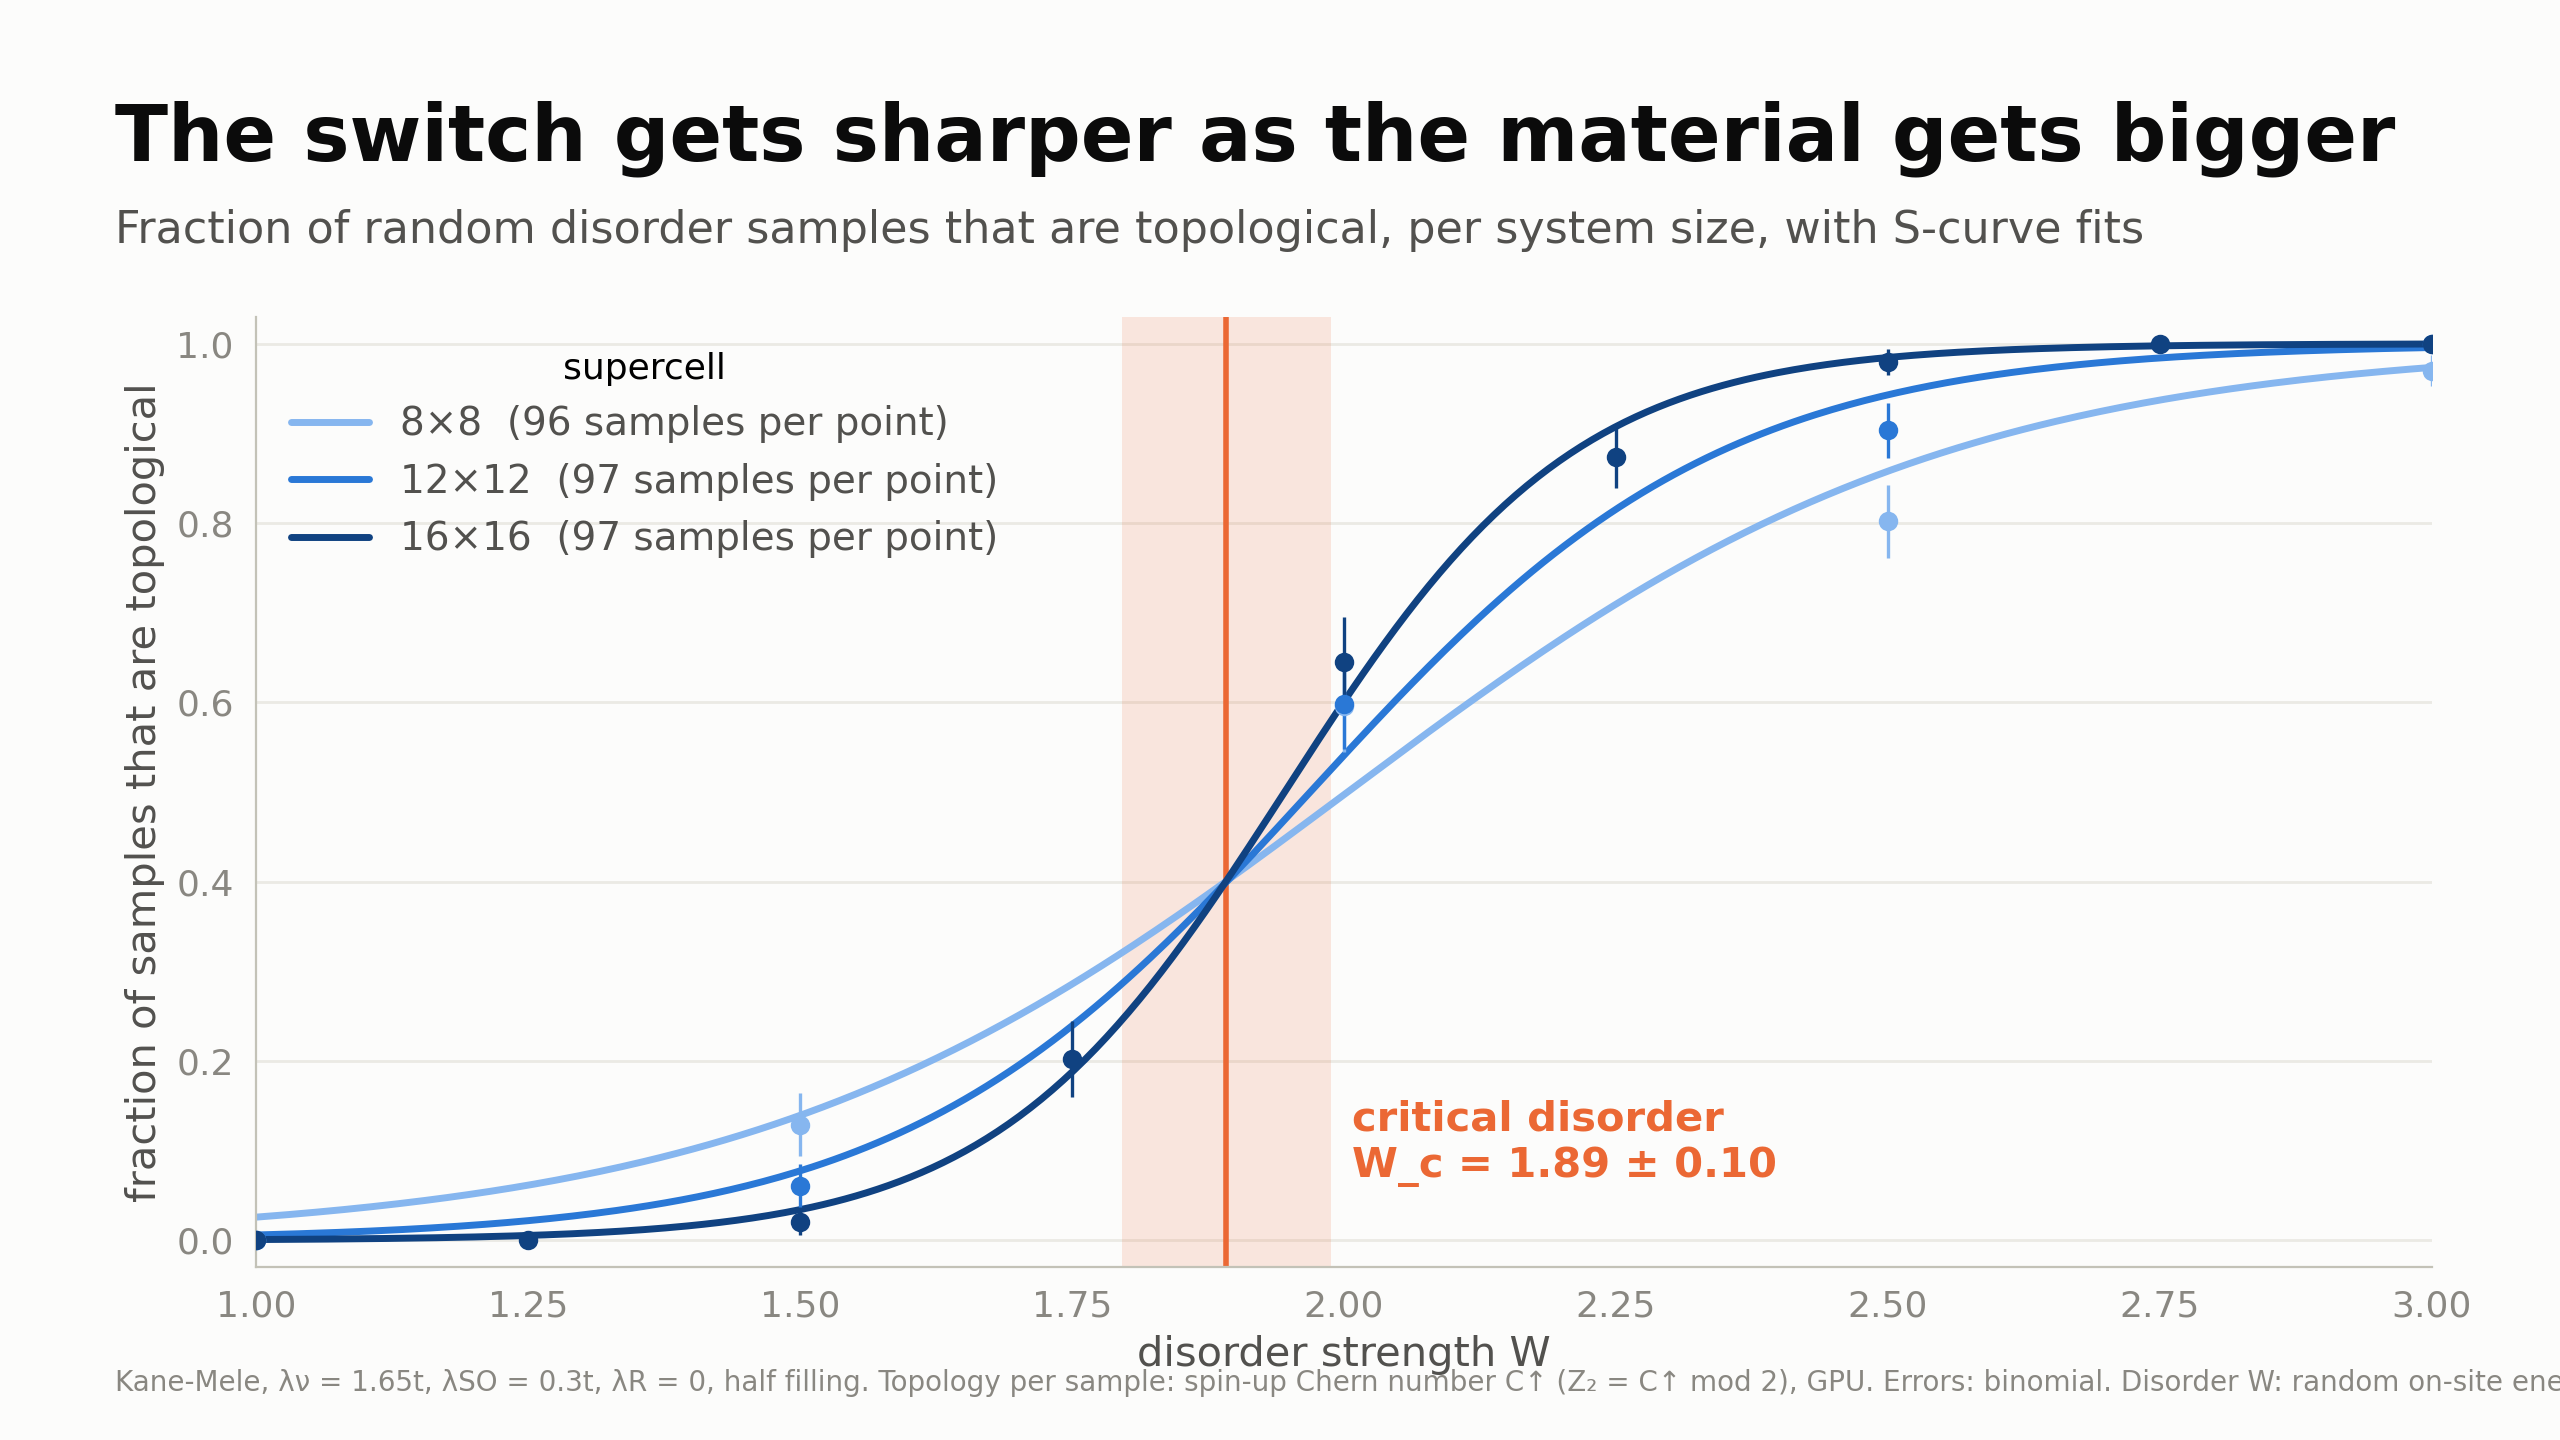
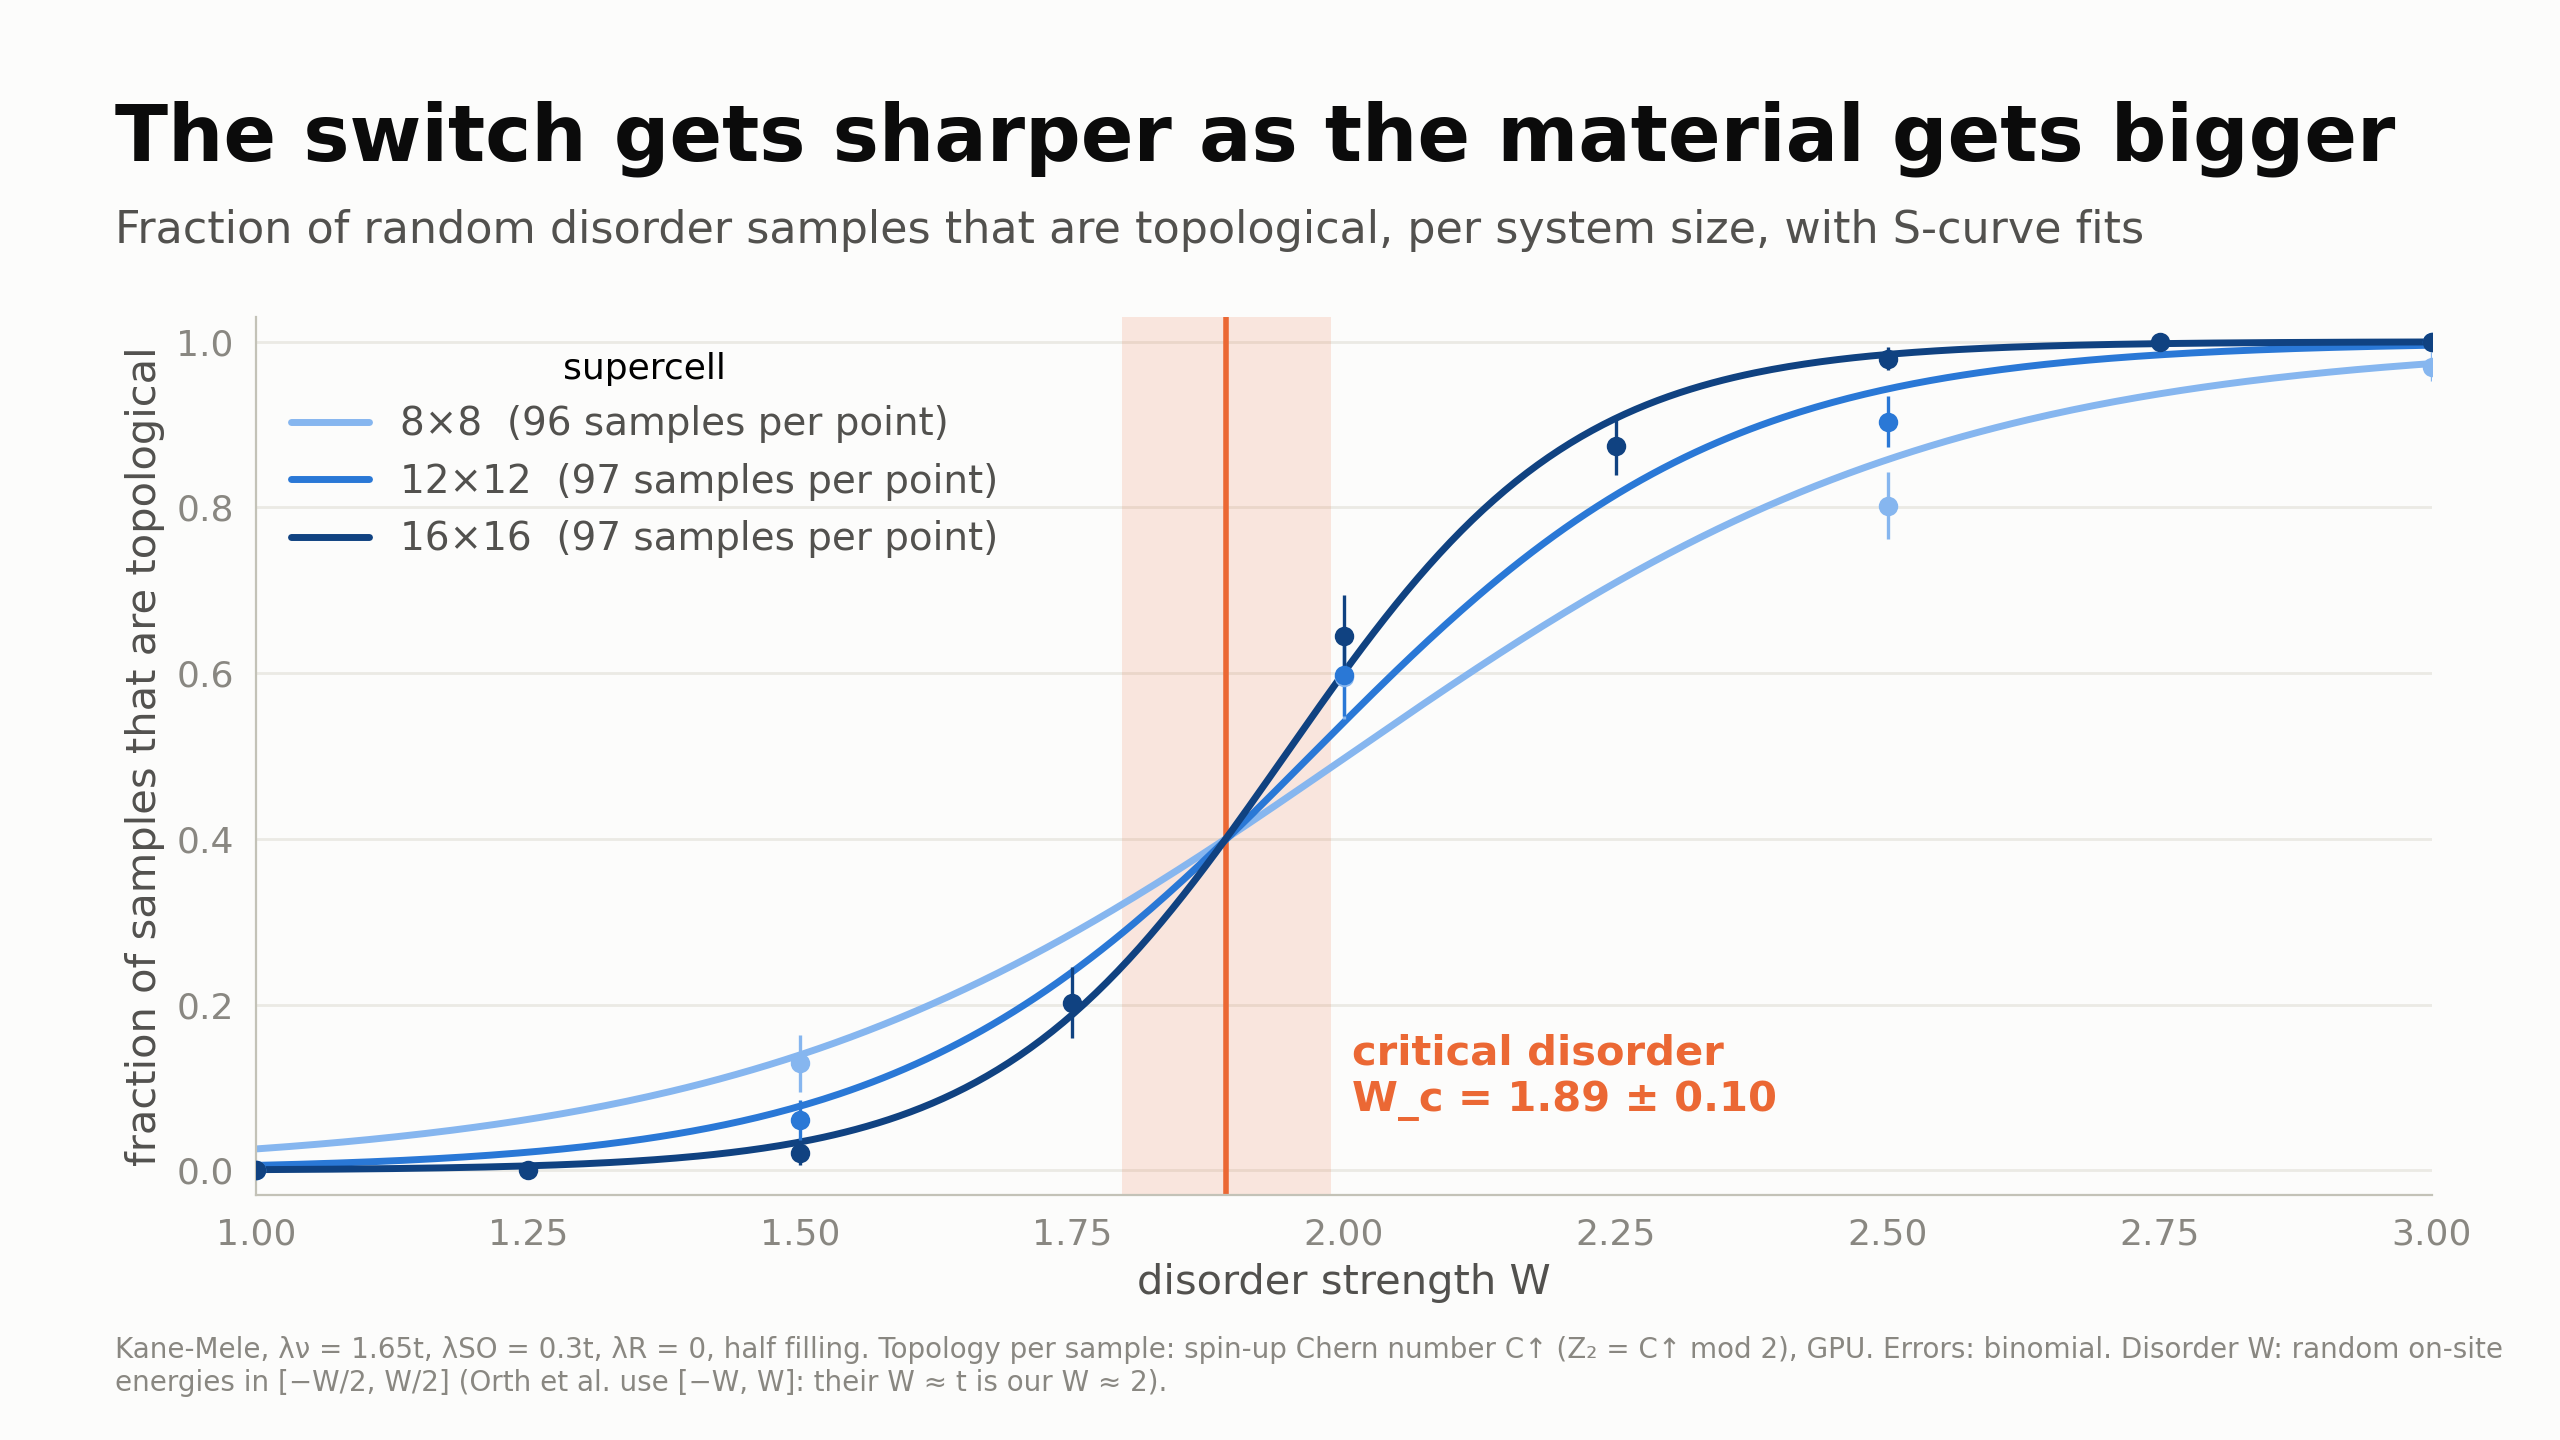
Slide figures for the finite-size-scaling result (analysis/fss_figures.py), Oscar's slide style
Four slides from analysis/fss.py output: switch sharpening with size, crossings vs 1/L,
width scaling for nu (with nu = 1 and 2.5 guides), comparison of W_c with the papers.
Drawn now from R11/R13 (8/12/16); re-run with --tag fss_estimate once fssfine lands.

Changed region(s): [[0.0312, 0.2188, 1.0, 0.9688], [0.0312, 0.25, 0.0938, 0.8125]]

diff --git a/hackathon/analysis/fss_figures.py b/hackathon/analysis/fss_figures.py
@@ -15,6 +15,7 @@ from __future__ import annotations
 import argparse
 import json
 import sys
+import textwrap
 from pathlib import Path
 
 import numpy as np
@@ -27,6 +28,11 @@ from style import AQUA, BLUE, BLUE_DARK, BLUE_LIGHT, INK, INK_2, MUTED, ORANGE, 
 
 PARAMS = "Kane-Mele, λν = 1.65t, λSO = 0.3t, λR = 0, half filling"
 CONV = "Disorder W: random on-site energies in [−W/2, W/2] (Orth et al. use [−W, W]: their W ≈ t is our W ≈ 2)."
+
+
+def note(text: str, width: int = 175) -> str:
+    """Footnotes wrap onto several lines instead of running off the slide."""
+    return "\n".join(textwrap.wrap(text, width))
 
 
 def shades(n: int) -> list:
@@ -65,8 +71,8 @@ def fig_switch(data, est, tag):
     ax.legend(loc="upper left", title="supercell", title_fontsize=13)
     titled(fig, "The switch gets sharper as the material gets bigger",
            "Fraction of random disorder samples that are topological, per system size, with S-curve fits",
-           f"{PARAMS}. Topology per sample: spin-up Chern number C↑ (Z₂ = C↑ mod 2), GPU. Errors: binomial. {CONV}")
-    return save(fig, f"fss_1_switch_{tag}.png")
+           note(f"{PARAMS}. Topology per sample: spin-up Chern number C↑ (Z₂ = C↑ mod 2), GPU. Errors: binomial. {CONV}"))
+    return save(fig, f"fss_1_switch_{tag}.png", bottom=0.17)
 
 
 def fig_crossings(est, tag):
@@ -97,12 +103,12 @@ def fig_crossings(est, tag):
     ax.yaxis.grid(True)
     ax.legend(loc="upper left", fontsize=13)
     drift = est.get("drift", {})
-    note = (f"Drift of the crossings with size: {'significant' if drift.get('significant') else 'not significant'} at 2σ."
-            if drift else "")
+    drift_note = (f"Drift of the crossings with size: {'significant' if drift.get('significant') else 'not significant'} at 2σ."
+                  if drift else "")
     titled(fig, "All sizes cross at one point: the critical disorder",
            "Finite-size scaling, as for the Binder cumulant of the Ising model: crossings of consecutive sizes",
-           f"{PARAMS}. Logistic fits per size; errors from 2,000 parametric bootstrap resamples. {note} {CONV}")
-    return save(fig, f"fss_2_crossings_{tag}.png")
+           note(f"{PARAMS}. Logistic fits per size; errors from 2,000 parametric bootstrap resamples. {drift_note} {CONV}"))
+    return save(fig, f"fss_2_crossings_{tag}.png", bottom=0.17)
 
 
 def fig_exponent(est, tag):
@@ -124,22 +130,26 @@ def fig_exponent(est, tag):
     ax.set_xticks(Ls)
     ax.set_xticklabels([f"{int(L)}" for L in Ls])
     ax.minorticks_off()
+    from matplotlib.ticker import FuncFormatter, LogLocator
+
+    ax.yaxis.set_major_locator(LogLocator(base=10, subs=(1.0, 1.5, 2.0, 3.0, 5.0, 7.0)))
+    ax.yaxis.set_major_formatter(FuncFormatter(lambda v, _: f"{v:g}"))
     ax.legend(loc="lower left")
     titled(fig, "How fast the switch sharpens: the critical exponent ν",
            "The transition width shrinks as a power of the system size; the power gives ν",
-           f"{PARAMS}. Guides: ν = 1 (clean, mass-driven gap closing) and ν ≈ 2.5 (quantum-Hall-type transitions, e.g. "
-           "disordered Haldane model, Mildner et al.). Small sizes can sit in a crossover between them: to check with larger L.")
-    return save(fig, f"fss_3_exponent_{tag}.png")
+           note(f"{PARAMS}. Guides: ν = 1 (clean, mass-driven gap closing) and ν ≈ 2.5 (quantum-Hall-type transitions, e.g. "
+                "disordered Haldane model, Mildner et al.). Small sizes can sit in a crossover between them: to check with larger L."))
+    return save(fig, f"fss_3_exponent_{tag}.png", bottom=0.17)
 
 
 def fig_comparison(est, tag):
     """One axis, our units. Rows: theory, published methods, ours."""
     rows = [  # label, value, err (None = no error bar), colour, note
         ("Lowest-order Born approximation (theory)", 1.74, 0.06, MUTED, "1.68–1.80 depending on normalisation"),
-        ("Orth et al. 2016: edge conductance, 93 × 150 ribbon", 2.14, 0.07, INK_2, "their Fig. 5 point; definition of W_c not stated"),
-        ("Huang & Liu 2018: spin Bott index, 10 samples", 2.0, 0.2, INK_2, "'around W = 1.0t' (their units), read from text"),
-        ("Favata & Marrazzo 2023: spin Chern number, L = 15", 1.99, None, INK_2, "midpoint of their curve (our interpolation)"),
-        ("Favata & Marrazzo 2023: spin Chern number, L = 42", 1.92, None, INK_2, "midpoint of their curve (our interpolation)"),
+        ("Orth et al. 2016: edge conductance", 2.14, 0.07, INK_2, "93 × 150 ribbon; W_c definition not stated"),
+        ("Huang & Liu 2018: spin Bott index", 2.0, 0.2, INK_2, "10 samples; 'around W = 1.0t' (their units)"),
+        ("Favata & Marrazzo 2023: spin Chern, L = 15", 1.99, None, INK_2, "midpoint of their curve (our interpolation)"),
+        ("Favata & Marrazzo 2023: spin Chern, L = 42", 1.92, None, INK_2, "midpoint of their curve (our interpolation)"),
     ]
     big = max(est["sizes"])
     pb = est["per_size"][str(big)]
@@ -150,23 +160,28 @@ def fig_comparison(est, tag):
                      "crossings of consecutive sizes, weighted mean"))
     fig, ax = new_slide()
     y = np.arange(len(rows))[::-1]
-    for yi, (lab, v, e, c, note) in zip(y, rows):
+    for yi, (lab, v, e, c, txt) in zip(y, rows):
         if e is not None:
             ax.errorbar([v], [yi], xerr=[e], fmt="o", ms=11, color=c, elinewidth=3, capsize=0)
         else:
             ax.plot([v], [yi], "o", ms=11, color=c, mfc="white", mew=2.5)
-        ax.text(1.43, yi, lab, ha="left", va="center", fontsize=14, color=INK if c in (BLUE, ORANGE) else INK_2,
-                fontweight="bold" if c in (BLUE, ORANGE) else "normal")
-        ax.text(2.42, yi, note, ha="left", va="center", fontsize=10.5, color=MUTED)
+        ax.text(1.02, yi, txt, transform=ax.get_yaxis_transform(), ha="left", va="center", fontsize=10.5, color=MUTED)
     ax.axvspan(1.8, 2.3, color=TINT, zorder=0)
-    ax.set(xlim=(1.42, 3.25), ylim=(-0.8, len(rows) - 0.2), yticks=[], xlabel="critical disorder W_c (our units)")
+    ax.set(xlim=(1.55, 2.45), ylim=(-0.7, len(rows) - 0.3), xlabel="critical disorder W_c (our units)")
+    ax.set_yticks(y)
+    ax.set_yticklabels([r[0] for r in rows], fontsize=12.5)
+    for lbl, r in zip(ax.get_yticklabels(), rows):
+        if r[3] in (BLUE, ORANGE):
+            lbl.set_fontweight("bold")
+            lbl.set_color(INK)
     ax.set_xticks([1.6, 1.8, 2.0, 2.2, 2.4])
+    ax.xaxis.grid(True)
     ax.spines["left"].set_visible(False)
     titled(fig, "Where everyone puts the critical disorder",
            "Same model and parameters, four independent methods; open circles: no error bar given",
-           f"{PARAMS}. All values converted to our disorder convention. Shaded: our target band [1.8, 2.3]. "
-           "The observables differ (edge conductance vs bulk invariants), so agreement is on location, not a precision test.")
-    return save(fig, f"fss_4_comparison_{tag}.png", left=0.04)
+           note(f"{PARAMS}. All values converted to our disorder convention. Shaded: our target band [1.8, 2.3]. "
+                "The observables differ (edge conductance vs bulk invariants), so agreement is on location, not a precision test."))
+    return save(fig, f"fss_4_comparison_{tag}.png", left=0.4, right=0.7, bottom=0.17)
 
 
 def main() -> None:
